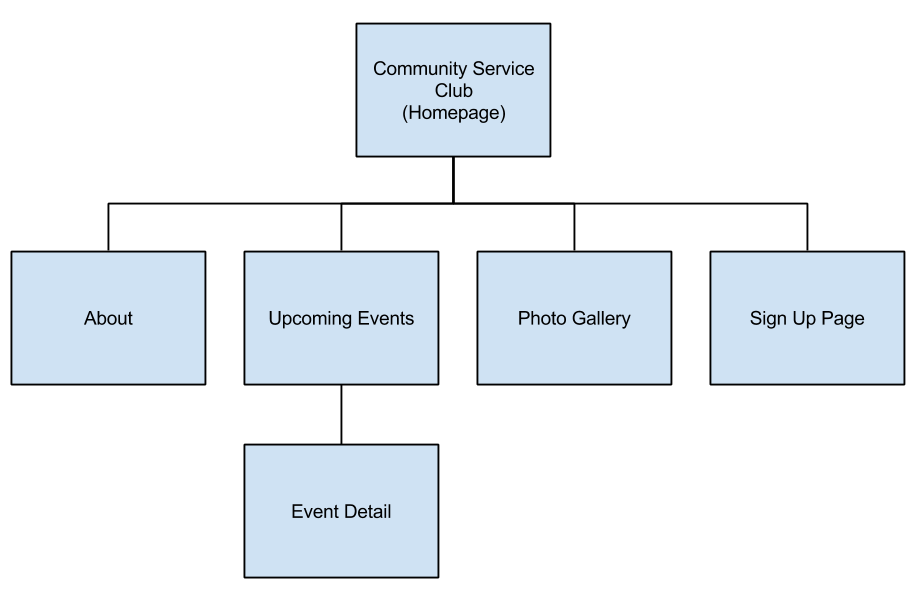
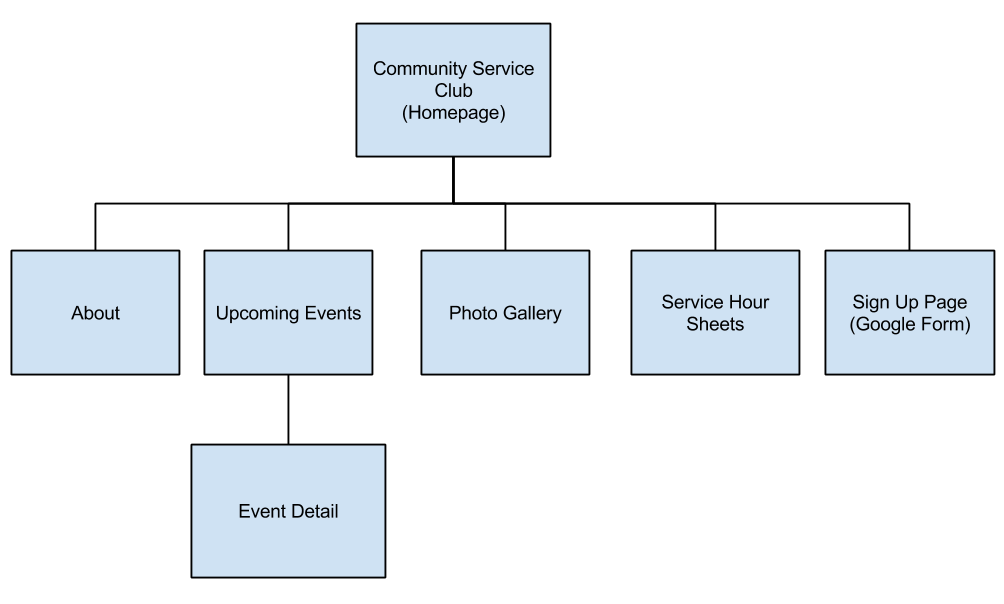
Updated and fixed images/words

Changed region(s): [[0.0, 0.0298, 1.0, 0.9834]]

diff --git a/index-DW.html b/index-DW.html
@@ -1,0 +1,117 @@
+<!DOCTYPE html PUBLIC "-//W3C//DTD XHTML 1.0 Transitional//EN" "http://www.w3.org/TR/xhtml1/DTD/xhtml1-transitional.dtd">
+<html xmlns="http://www.w3.org/1999/xhtml">
+<head>
+<meta http-equiv="Content-Type" content="text/html; charset=UTF-8" />
+<title>Untitled Document</title>
+<style type="text/css">
+#apDiv1 {
+	position:absolute;
+	left:1px;
+	top:1px;
+	width:260px;
+	height:202px;
+	z-index:1;
+}
+#apDiv2 {
+	position:absolute;
+	left:260px;
+	top:0px;
+	width:940px;
+	height:101px;
+	z-index:2;
+	font-size: 60px;
+	font-weight: bold;
+	color: #F00;
+	text-align: center;
+}
+#apDiv3 {
+	position:absolute;
+	left:573px;
+	top:101px;
+	width:317px;
+	height:55px;
+	z-index:3;
+	font-size: 36px;
+	text-align: center;
+}
+#apDiv4 {
+	position:absolute;
+	left:261px;
+	top:101px;
+	width:310px;
+	height:55px;
+	z-index:3;
+	font-size: 36px;
+	text-align: center;
+}
+#apDiv5 {
+	position:absolute;
+	left:877px;
+	top:101px;
+	width:310px;
+	height:55px;
+	z-index:3;
+	font-size: 36px;
+	text-align: center;
+}
+#apDiv6 {
+	position:absolute;
+	left:260px;
+	top:156px;
+	width:941px;
+	height:325px;
+	z-index:4;
+}
+#apDiv7 {
+	position:absolute;
+	left:34px;
+	top:202px;
+	width:201px;
+	height:69px;
+	z-index:5;
+	font-size: 36px;
+	text-align: left;
+}
+#apDiv8 {
+	position:absolute;
+	left:0px;
+	top:271px;
+	width:260px;
+	height:125px;
+	z-index:6;
+	font-size: 30px;
+}
+#apDiv9 {
+	position:absolute;
+	left:260px;
+	top:503px;
+	width:448px;
+	height:154px;
+	z-index:7;
+	font-size: 25px;
+}
+#apDiv10 {
+	position:absolute;
+	left:760px;
+	top:503px;
+	width:441px;
+	height:154px;
+	z-index:8;
+	font-size: 25px;
+}
+</style>
+</head>
+
+<body>
+<div id="apDiv1"><img src="htdocs/images/Storyboard1_r1_c1.jpg" width="260" height="202" alt="AIS" /></div>
+<div id="apDiv2"><img src="htdocs/images/Storyboard1_r1_c4.jpg" width="940" height="101" alt="Logo" /></div>
+<div id="apDiv3"><img src="htdocs/images/Storyboard1_r2_c6.jpg" width="312" height="55" alt="Upcoming Events" /></div>
+<div id="apDiv4"><img src="htdocs/images/Storyboard1_r2_c4.jpg" width="310" height="55" alt="About" /></div>
+<div id="apDiv5"><img src="htdocs/images/Storyboard1_r2_c12.jpg" width="289" height="55" alt="Photo" /></div>
+<div id="apDiv6"></div>
+<div id="apDiv7"><a href="https://docs.google.com/a/ais.edu.hk/forms/d/1ZHQsY95rOkZguDibrRYHssL6OdlGdLAkrDkk7qsQetw/viewform?usp=send_form"><img src="htdocs/images/Storyboard1_r4_c2.jpg" width="171" height="69" alt="SignUp" /></a></div>
+<div id="apDiv8"><img src="htdocs/images/Storyboard1_r5_c1.jpg" width="260" height="125" alt="Contact" /></div>
+<div id="apDiv9"><img src="htdocs/images/Storyboard1_r8_c4.jpg" width="448" height="46" alt="Recent News" /><img src="htdocs/images/Storyboard1_r10_c4.jpg" width="201" height="108" alt="Cancelled" /></div>
+<div id="apDiv10"><img src="htdocs/images/Storyboard1_r8_c9.jpg" width="441" height="37" /></div>
+</body>
+</html>

diff --git a/index.html b/index.html
@@ -56,14 +56,14 @@
 <!--Problem 3-->
   <tr>
     <td>Find students who wants to participate in the event</td>
-    <td>Make the spreadsheet on each event for signing up</td>
-    <td>No</td>
+    <td>Make the spreadsheet for signing up events</td>
+    <td>Yes</td>
   </tr>
 <!--Problem 4-->
   <tr>
     <td>Students do not know how to sign up</td>
     <td>Put the link for signing up (Google form & Spreadsheet?)</td>
-    <td>No</td>
+    <td>Yes</td>
   </tr>
 </table>
 
@@ -89,25 +89,6 @@
   However, this flowchart has too much detail, so I made a simplified flowchart.</p>
 <img src="FinalFlowchart.png" alt="FinalFlowchart" width="800" height="500"/>
 
-<h4>Wireframe</h4>
-<p>Idea 1</p>
-<img src="WIREFRAME%201.png" />
-<p>Idea 2</p>
-<img src="WIREFRAME%202.png" />
-<p>Idea 3</p>
-<img src="Wireframe%203.png" alt="Wireframe 3" width="500" height="1000"/>
-<p>Idea 4</p>
-<img src="Wireframe%20Idea%204.png" />
-
-<p>We discussed in the group and decided to use Idea 1.</p>
-
-<h4>Storyboard</h4>
-We started creating the storyboard based on the wireframe we chose.
-<p><img src="Storyboard1.png" alt="Storyboard1" width="800" height="500" /></p>
-
-<h4>Getting feedback</h4>
-<p>Judy said we should change the main picture and put background color.</p>
-<p>Problem: What color should I put to make a better webpage?</p>
-<p><a href="howimademyhomepage.html">How I made my web page</a></p>
+<h3>Next Page: <a href="howimademyhomepage.html">How I made my web page</a></h3>
   </body>
 </html>

diff --git a/howimademyhomepage.html b/howimademyhomepage.html
@@ -2,7 +2,26 @@
 <html>
   <body>
     <h2>Wireframe</h2>
+      <p>Idea 1</p>
+      <img src="WIREFRAME%201.png" />
+      <p>Idea 2</p>
+      <img src="WIREFRAME%202.png" />
+      <p>Idea 3</p>
+      <img src="Wireframe%203.png" alt="Wireframe 3" width="500"        height="1000"/>
+      <p>Idea 4</p>
+      <img src="Wireframe%20Idea%204.png" />
+      <p>We discussed in the group, and decided to use Idea 1 because we want to put Sign Up button on the upper left to get attention from the user.</p>
     <h2>Storyboard by Firework</h2>
+      <p>We started creating the storyboard based on the wireframe we chose.</p>
+      <p><img src="Storyboard1.png" alt="Storyboard1" width="800" height="500" /></p>
+      <h3>Wireframe made by my group members</h3>
+      <h4>Jo Eun's:</h4>
+      <img src="StoryboardByJoEun.png" alt="StoryboardByJoEun" width="800" height="500" />
+      <h4>Dhaval's:</h4>
+      <img src="StoryboardByDhaval.png" />
+
+<h3>Getting feedback</h3>
+<p>Judy said we should change the main picture because the picture does not show the aspect of community service that much.</p>
     <h2>Dreamweaver</h2>
     <h2>Actual pages I created:</h2>
     <ul>
